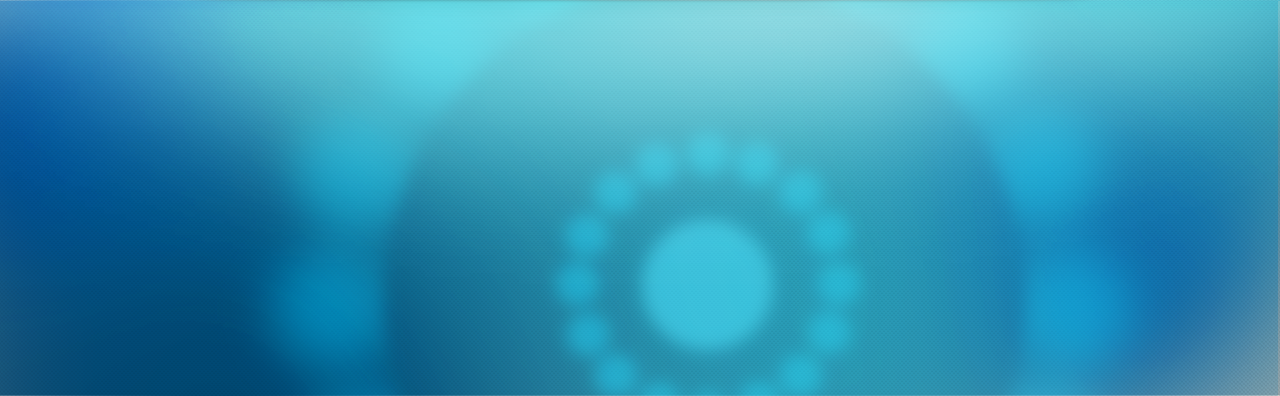
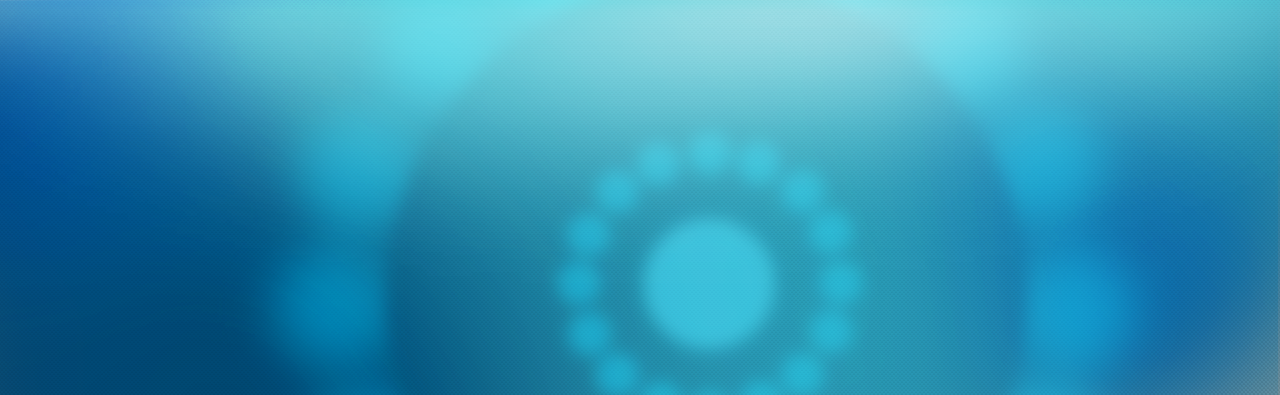
Add higher quality image as header background

Changed region(s): [[0.875, 0.6684, 1.0, 1.0]]

diff --git a/themes/oae/css/colors.css b/themes/oae/css/colors.css
@@ -33,7 +33,7 @@ html {
 }
 #header {
     background: url("../images/main-banner.png") no-repeat scroll center top transparent;
-    height: 396px;
+    height: 395px;
     margin-top: 70px;
 }
 #header.without-header {

diff --git a/themes/oae/templates/page.tpl.php b/themes/oae/templates/page.tpl.php
@@ -120,7 +120,7 @@
             </div>
         </div>
         <div id="header-menu" style="float:right;width:758px;">
-            <a href="enable-collaboration" title="Enable collaboration" id="header-menu-1" style="float: left; margin-top: 230px; margin-left: 20px;">
+            <a href="enable-collaboration" title="Enable collaboration" id="header-menu-1" style="float: left; margin-top: 230px; margin-left: -15px;">
                 <img src="/drupal/images/menu-enable-collab<?php $page_path === "enable-collaboration" ? print "-active" : "" ?>.png" alt="Enable collaboration">
             </a>
             <a href="engage-users" title="Engage users" id="header-menu-2" style="float: left; margin-top: 80px; margin-left: -60px;">
